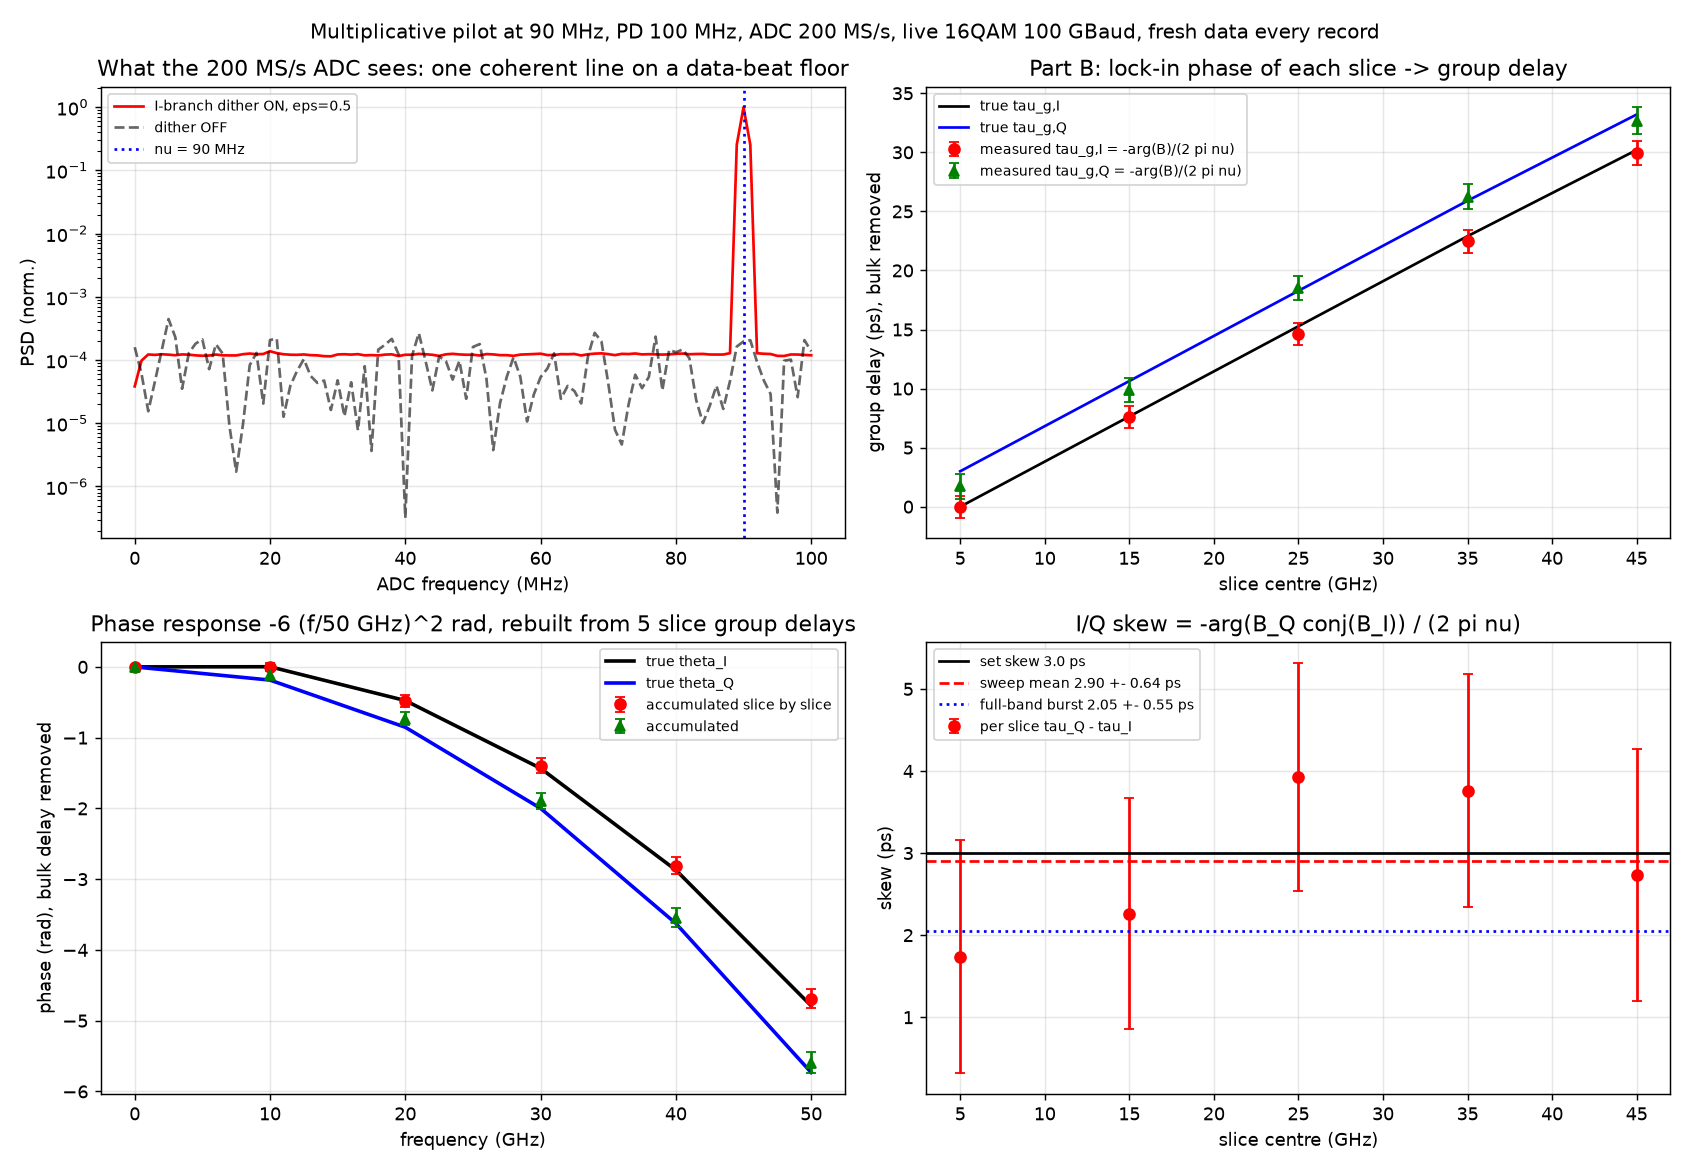
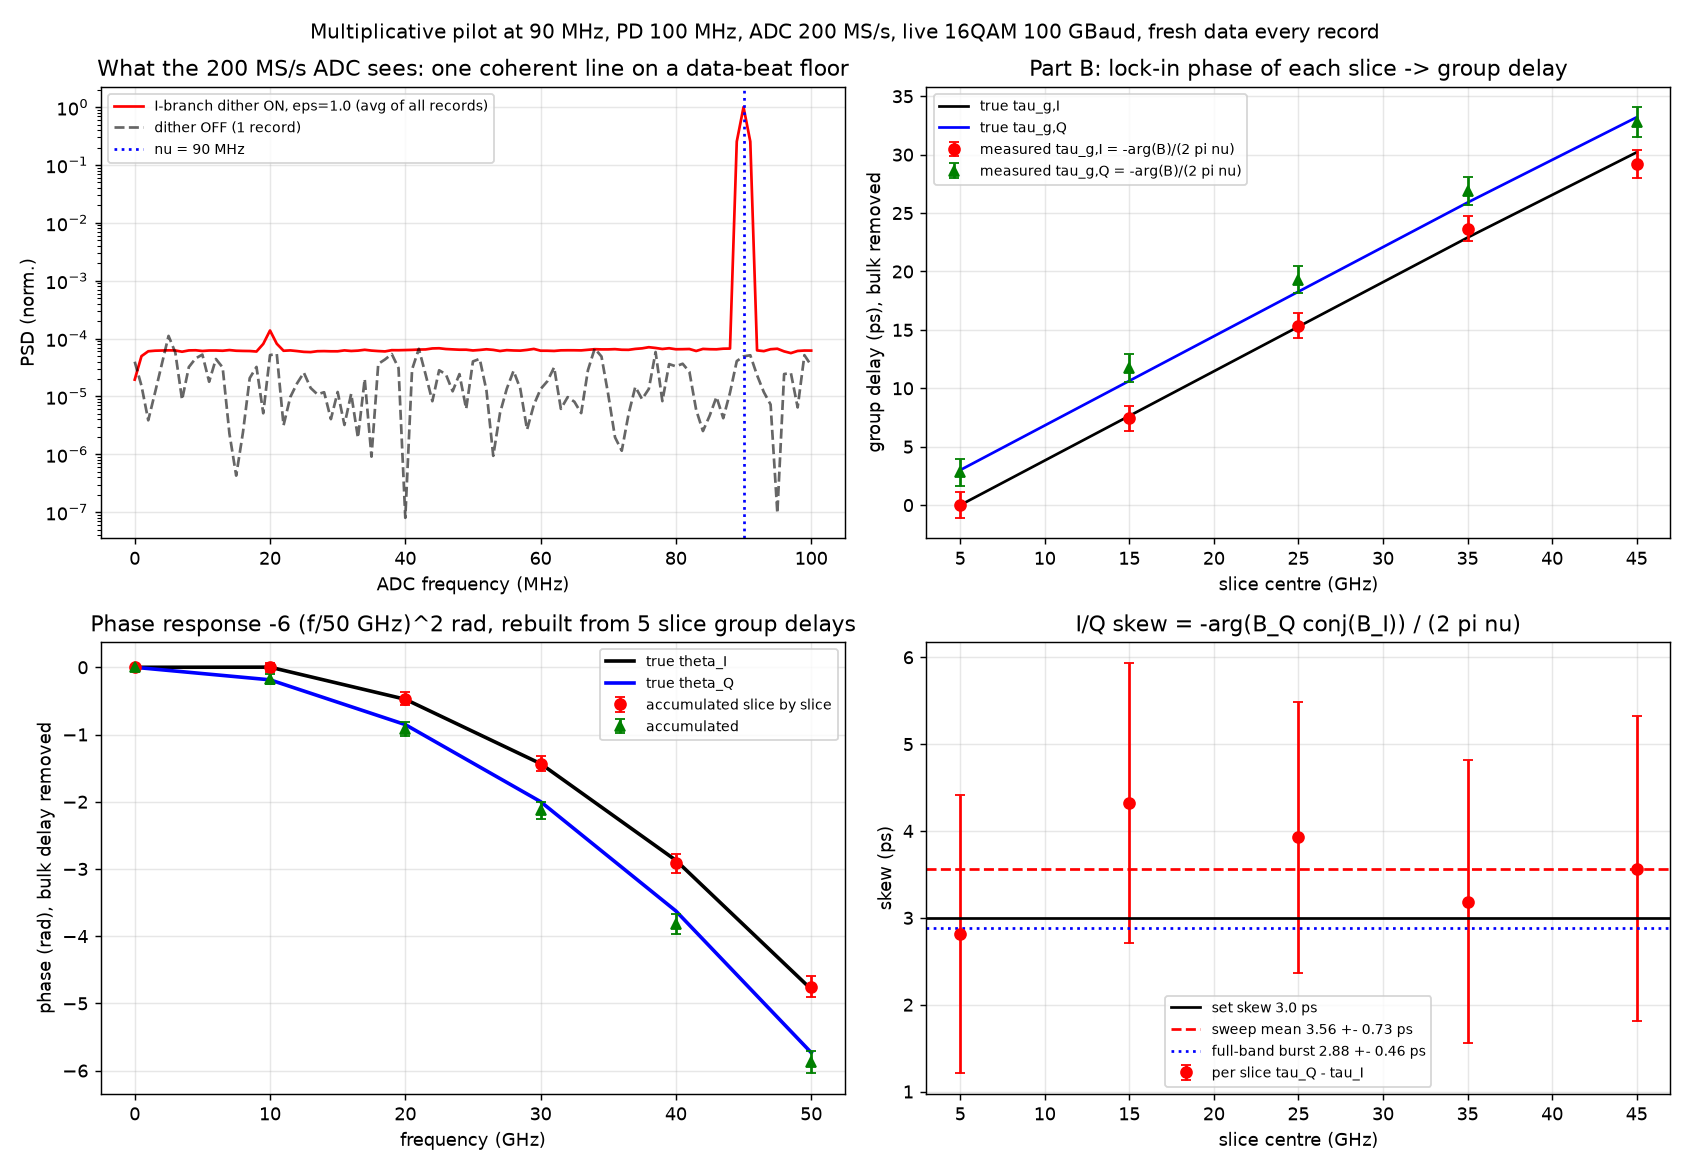
Standalone demo: F5-runnable (auto pip install, live progress, plt.show, serial fallback)
Claude-Session: https://claude.ai/code/session_01WJBAaFbkB37f5rH6xYinGb

diff --git a/examples/standalone_pilot_demo.py b/examples/standalone_pilot_demo.py
@@ -1,7 +1,8 @@
-"""乘性导频 S21 监测：自包含的原理演示（只依赖 numpy + matplotlib）
+"""乘性导频 S21 监测：自包含的原理演示 —— 打开本文件直接按 F5 运行即可
 
-运行:  python standalone_pilot_demo.py          （4 核约 1.5 分钟，单核约 5 分钟）
-输出:  standalone_pilot_demo.png + 终端里的数字
+- 只用 numpy + matplotlib，缺了会自动 pip 安装
+- 运行中每隔几秒打印一次当前估计值，结束时弹出结果图并保存 standalone_pilot_demo.png
+- 4 核约 2 分钟，单核约 6 分钟（Spyder 里多进程不可用时自动改单进程）
 
 链路（每条 1 µs 记录都按 200 GS/s 逐样本仿真，数据每次新生成）:
 
@@ -16,18 +17,25 @@
   数据相位抵消，剩下 θ(f+ν)−θ(f) = −2πν·τ_g(f)。所有 f 叠在 ν 一根线上，
   谱线相位 = 被调制频段的平均群时延。I/Q 相减得 skew；逐片扫描、逐片累加得相频。
 
-调制深度故意设得很深（先不考虑对主数据流的代价），好让结果几十毫秒内就收敛。
+调制深度故意设得很深（先不考虑对主数据流的代价），好让结果十几毫秒内就收敛。
 """
 import os
+import subprocess
 import sys
 import time
-from multiprocessing import Pool, cpu_count, freeze_support
 
 for _v in ("OMP_NUM_THREADS", "OPENBLAS_NUM_THREADS", "MKL_NUM_THREADS"):
     os.environ.setdefault(_v, "1")          # 每个进程单线程，多进程并行更快
-import numpy as np
 
-# ------------------------------------------------------------------ 参数
+try:
+    import numpy as np
+    import matplotlib
+except ImportError:                          # 缺库就自动装
+    subprocess.check_call([sys.executable, "-m", "pip", "install", "numpy", "matplotlib"])
+    import numpy as np
+    import matplotlib
+
+# ------------------------------------------------------------------ 可调参数
 fs = 200e9                 # 波形采样率 (200 GS/s)
 N = 200_000                # 每条记录 1 µs
 D_ADC = 1000               # 200 GS/s / 1000 = 200 MS/s
@@ -36,13 +44,15 @@ fs_adc = fs / D_ADC
 nu = 90e6                  # 导频频率：1 µs 内整 90 个周期，记录之间相位自动连续
 BAUD = 100e9               # 100 GBaud 16QAM，2 sps，RRC 0.1
 QUAD_RAD, F_EDGE = 6.0, 50e9   # 公共二次相频：50 GHz 处 −6 rad
-SKEW_PS = 3.0              # Q 比 I 晚 3 ps（想试 0.3 ps 把时间加长 100 倍）
-EPS_BURST = 0.5            # 全带 burst 的调制深度（测 skew）
-EPS_SLICE = 1.2            # 分片扫描的调制深度（测相频）
-T_BURST_MS = 1.5           # burst：每支路积分时间
-T_SLICE_MS = 1.5           # 扫描：每片每支路积分时间
+SKEW_PS = 3.0              # Q 比 I 晚 3 ps（想试 0.3 ps 把两个时间各加长 100 倍）
+EPS_BURST = 1.0            # 全带 burst 的调制深度（测 skew）
+EPS_SLICE = 1.5            # 分片扫描的调制深度（测相频）
+T_BURST_MS = 1.0           # burst：每支路积分时间
+T_SLICE_MS = 1.0           # 扫描：每片每支路积分时间
 K = 5                      # 片数，5 × 10 GHz 铺满 0–50 GHz
 SNR_ADC_DB = 30            # ADC 热噪声相对 PD 输出交流功率
+USE_MULTIPROCESSING = True # Spyder 等环境里失败时会自动退回单进程
+CHUNK = 100                # 每批记录数，决定打印进度的频率
 
 f = np.fft.rfftfreq(N, 1 / fs)          # 记录内频率网格，1 MHz 一格
 t = np.arange(N) / fs
@@ -111,14 +121,15 @@ def one_record(rng, branch, mask, eps, noise_std):
 
 
 def worker(args):
-    seed, n_rec, schedule, masks, eps, noise_std = args
+    """算一批记录，按 schedule 轮流给不同的 (支路, 片) 加导频"""
+    seed, start, n_rec, schedule, masks, eps, noise_std = args
     rng = np.random.default_rng(seed)
     acc = np.zeros(len(schedule), complex)
     acc2 = np.zeros(len(schedule))
     cnt = np.zeros(len(schedule), int)
     spec = np.zeros(Nd // 2 + 1)
     for i in range(n_rec):
-        s = i % len(schedule)
+        s = (start + i) % len(schedule)
         branch, k = schedule[s]
         B, sp = one_record(rng, branch, masks[k], eps, noise_std)
         acc[s] += B
@@ -129,30 +140,56 @@ def worker(args):
     return acc, acc2, cnt, spec
 
 
-def run(schedule, masks, eps, noise_std, t_ms, procs, seed0):
+class Accumulator:
+    def __init__(self, n_slots):
+        self.acc = np.zeros(n_slots, complex)
+        self.acc2 = np.zeros(n_slots)
+        self.cnt = np.zeros(n_slots, int)
+        self.spec = np.zeros(Nd // 2 + 1)
+
+    def add(self, out):
+        self.acc += out[0]; self.acc2 += out[1]; self.cnt += out[2]; self.spec += out[3]
+
+    def result(self):
+        B = self.acc / np.maximum(self.cnt, 1)
+        var = np.maximum(self.acc2 / np.maximum(self.cnt, 1) - np.abs(B) ** 2, 0)
+        sem = np.sqrt(var / np.maximum(self.cnt, 1) / 2)       # 每个正交分量的标准误
+        return B, sem / np.maximum(np.abs(B), 1e-30), self.spec / max(1, self.cnt[0])
+
+
+def run(schedule, masks, eps, noise_std, t_ms, seed0, report):
+    """跑完 len(schedule)*t_ms 毫秒的信号，每批结束调用 report(B, sig_phase, 已用秒数)"""
     n_total = int(round(len(schedule) * t_ms * 1e-3 * fs / N))
-    per = (n_total + procs - 1) // procs
-    jobs = [(seed0 + j, per, schedule, masks, eps, noise_std) for j in range(procs)]
+    jobs = [(seed0 + j, j * CHUNK, min(CHUNK, n_total - j * CHUNK), schedule, masks, eps, noise_std)
+            for j in range((n_total + CHUNK - 1) // CHUNK)]
+    A = Accumulator(len(schedule))
     t0 = time.time()
-    if procs > 1:
-        with Pool(procs) as pool:
-            outs = pool.map(worker, jobs)
-    else:
-        outs = [worker(j) for j in jobs]
-    acc = sum(o[0] for o in outs)
-    acc2 = sum(o[1] for o in outs)
-    cnt = sum(o[2] for o in outs)
-    spec = sum(o[3] for o in outs) / max(1, cnt[0])
-    B = acc / cnt
-    sem = np.sqrt(np.maximum(acc2 / cnt - np.abs(B) ** 2, 0) / cnt / 2)   # 每个正交分量的标准误
-    sig_phase = sem / np.abs(B)
-    print(f"   {cnt.sum()} 条记录（{cnt.sum() * N / fs * 1e3:.1f} ms 信号）用时 {time.time() - t0:.0f} s")
-    return B, sig_phase, spec
+    pool = None
+    if USE_MULTIPROCESSING:
+        try:
+            from multiprocessing import Pool, cpu_count
+            pool = Pool(max(1, min(8, cpu_count())))
+            it = pool.imap_unordered(worker, jobs)
+        except Exception as e:                       # 例如 Spyder 下无法 spawn
+            print(f"   多进程不可用（{e}），改用单进程")
+            pool = None
+    if pool is None:
+        it = map(worker, jobs)
+    last = 0.0
+    for out in it:
+        A.add(out)
+        if time.time() - last > 3 or A.cnt.sum() == n_total:
+            last = time.time()
+            B, sig, _ = A.result()
+            report(B, sig, A.cnt.sum(), n_total, time.time() - t0)
+    if pool is not None:
+        pool.close(); pool.join()
+    return A.result()
 
 
 def main():
-    procs = max(1, min(4, cpu_count()))
-    print(f"ν = {nu / 1e6:.0f} MHz，ADC {fs_adc / 1e6:.0f} MS/s，PD 100 MHz，{procs} 个进程")
+    print(f"ν = {nu / 1e6:.0f} MHz，ADC {fs_adc / 1e6:.0f} MS/s，PD 100 MHz，"
+          f"设定 skew {SKEW_PS} ps，二次相频 {QUAD_RAD:.0f} rad @ {F_EDGE / 1e9:.0f} GHz")
 
     # ADC 热噪声标定（不加导频时的 PD 输出交流功率）
     rng = np.random.default_rng(0)
@@ -161,34 +198,41 @@ def main():
     noise_std = np.sqrt(np.var(z0) * 10 ** (-SNR_ADC_DB / 10))
     _, spec_off = one_record(rng, 0, None, 0.0, noise_std)
 
-    # ============ Part A：全带 burst 测 skew（I、Q 交替）
-    print(f"\n[A] 全带 burst，ε = {EPS_BURST}，每支路 {T_BURST_MS} ms")
-    B, sig, spec_on = run([(0, 0), (1, 0)], [None], EPS_BURST, noise_std, T_BURST_MS, procs, 100)
-    skew_A = -np.angle(B[1] * np.conj(B[0])) / (2 * np.pi * nu)
-    skew_A_sig = np.sqrt(sig[0] ** 2 + sig[1] ** 2) / (2 * np.pi * nu)
-    # 全带 burst 的理论值：两路各自按权重 S|H(f)||H(f+ν)| 平均的群时延之差
+    # 真值：谱线理论上对应的加权平均群时延
     def line_tau(H, mask):
         Hs = np.interp(f + nu, f, H.real, right=0) + 1j * np.interp(f + nu, f, H.imag, right=0)
         return -np.angle(np.sum(RRC ** 2 * mask * Hs * np.conj(H))) / (2 * np.pi * nu)
-    full = np.ones_like(f)
-    skew_A_true = line_tau(H_Q, full) - line_tau(H_I, full)
-    print(f"   skew 估计 {skew_A * 1e12:+.2f} ± {skew_A_sig * 1e12:.2f} ps   "
-          f"（谱线理论值 {skew_A_true * 1e12:+.2f} ps，设定 {SKEW_PS} ps）")
+
+    # ============ Part A：全带 burst 测 skew（I、Q 交替）
+    print(f"\n[A] 全带 burst，ε = {EPS_BURST}，每支路 {T_BURST_MS} ms（skew 的真值 {SKEW_PS} ps）")
+
+    def rep_a(B, sig, n, n_total, sec):
+        sk = -np.angle(B[1] * np.conj(B[0])) / (2 * np.pi * nu)
+        ss = np.sqrt(sig[0] ** 2 + sig[1] ** 2) / (2 * np.pi * nu)
+        print(f"   {n:5d}/{n_total} 条记录 {sec:4.0f} s   skew = {sk * 1e12:+.2f} ± {ss * 1e12:.2f} ps")
+    B, sig, spec_on = run([(0, 0), (1, 0)], [None], EPS_BURST, noise_std, T_BURST_MS, 100, rep_a)
+    skew_A = -np.angle(B[1] * np.conj(B[0])) / (2 * np.pi * nu)
+    skew_A_sig = np.sqrt(sig[0] ** 2 + sig[1] ** 2) / (2 * np.pi * nu)
 
     # ============ Part B：分片扫描测相频（每片 I、Q 各测一次）
     print(f"\n[B] {K} 片 × {Delta / 1e9:.0f} GHz 扫描，ε_s = {EPS_SLICE}，每片每支路 {T_SLICE_MS} ms")
     masks = [((f >= edges[k]) & (f < edges[k + 1])).astype(float) for k in range(K)]
     schedule = [(b, k) for k in range(K) for b in (0, 1)]
-    B, sig, _ = run(schedule, masks, EPS_SLICE, noise_std, T_SLICE_MS, procs, 900)
+    tau_true = np.array([[line_tau(H, masks[k]) for H in (H_I, H_Q)] for k in range(K)])
+
+    def rep_b(B, sig, n, n_total, sec):
+        Bk = B.reshape(K, 2)
+        d = -np.angle(Bk[:, 1] * np.conj(Bk[:, 0])) / (2 * np.pi * nu)
+        print(f"   {n:5d}/{n_total} 条记录 {sec:4.0f} s   各片 Δτ(ps) = "
+              + " ".join(f"{x * 1e12:+5.2f}" for x in d))
+    B, sig, _ = run(schedule, masks, EPS_SLICE, noise_std, T_SLICE_MS, 900, rep_b)
     B = B.reshape(K, 2)
     sig = sig.reshape(K, 2)
     tau = -np.angle(B) / (2 * np.pi * nu)                 # 每片每支路的群时延（含 M 和 NCO 的共同常数）
     sig_tau = sig / (2 * np.pi * nu)
-    tau_true = np.array([[line_tau(H, masks[k]) for H in (H_I, H_Q)] for k in range(K)])
     # 绝对延迟只能测到模 1/ν，且含 M(ν) 和 NCO 的共同常数：共同延迟本来就不可观测。
     # 测量值和真值各自减掉自己 I 路第 0 片的群时延（同一个线性参考项），只比较形状。
-    ref = tau[0, 0]
-    ref_true = tau_true[0, 0]
+    ref, ref_true = tau[0, 0], tau_true[0, 0]
     tau = tau - ref
     tau_true = tau_true - ref_true
     # 逐片累加 → 相频（望远镜恒等式）
@@ -203,6 +247,8 @@ def main():
     w = 1 / sig_d ** 2
     skew_B = np.sum(w * d_tau) / np.sum(w)
     skew_B_sig = 1 / np.sqrt(np.sum(w))
+
+    print("\n================ 结果 ================")
     print("   片中心(GHz)  τ_I 测/真 (ps)      τ_Q 测/真 (ps)      Δτ (ps)")
     for k in range(K):
         print(f"   {fc[k] / 1e9:6.0f}   {tau[k, 0] * 1e12:7.2f} / {tau_true[k, 0] * 1e12:6.2f}"
@@ -210,12 +256,10 @@ def main():
               f"   {d_tau[k] * 1e12:+.2f} ± {sig_d[k] * 1e12:.2f}")
     print(f"   相频在 50 GHz 处：I 测 {th[-1, 0]:+.3f} / 真 {th_true[-1, 0]:+.3f} rad，"
           f"Q 测 {th[-1, 1]:+.3f} / 真 {th_true[-1, 1]:+.3f} rad（σ ≈ {sig_th[-1, 0]:.3f}）")
-    print(f"   skew（逐片差分加权平均）{skew_B * 1e12:+.2f} ± {skew_B_sig * 1e12:.2f} ps（设定 {SKEW_PS} ps）")
+    print(f"   skew：全带 burst {skew_A * 1e12:+.2f} ± {skew_A_sig * 1e12:.2f} ps，"
+          f"逐片差分 {skew_B * 1e12:+.2f} ± {skew_B_sig * 1e12:.2f} ps（设定 {SKEW_PS} ps）")
 
     # ============ 画图
-    import matplotlib
-    if "--show" not in sys.argv:
-        matplotlib.use("Agg")
     import matplotlib.pyplot as plt
     fig, ax = plt.subplots(2, 2, figsize=(13, 9))
     fa = np.fft.rfftfreq(Nd, 1 / fs_adc) / 1e6
@@ -252,12 +296,13 @@ def main():
     fig.suptitle("Multiplicative pilot at 90 MHz, PD 100 MHz, ADC 200 MS/s, live 16QAM 100 GBaud, fresh data every record",
                  fontsize=11)
     fig.tight_layout()
-    fig.savefig("standalone_pilot_demo.png", dpi=130)
-    print("\n图已保存: standalone_pilot_demo.png")
-    if "--show" in sys.argv:
-        plt.show()
+    out_png = os.path.join(os.path.dirname(os.path.abspath(__file__)), "standalone_pilot_demo.png")
+    fig.savefig(out_png, dpi=130)
+    print(f"\n图已保存: {out_png}")
+    plt.show()
 
 
 if __name__ == "__main__":
+    from multiprocessing import freeze_support
     freeze_support()
     main()
